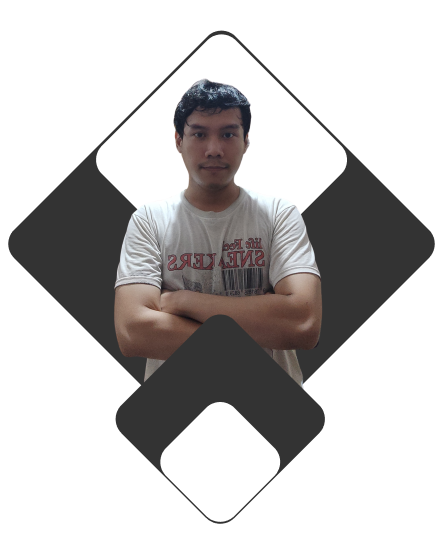
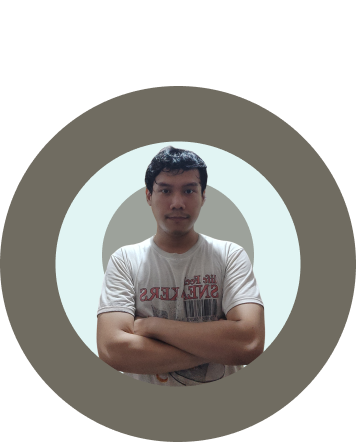
update responsive

diff --git a/public/assets/css/homepage.css b/public/assets/css/homepage.css
@@ -23,7 +23,7 @@ height: 20px;
     margin:5px 7px;
     background: #000000 !important;
     display:block;
-    -webkit-backface-visibility:visible;
+    /* -webkit-backface-visibility:visible; */
     -webkit-transition:opacity 200ms ease;
     -moz-transition:opacity 200ms ease;
     -ms-transition:opacity 200ms ease;
@@ -39,7 +39,7 @@ height: 20px;
     margin:5px 7px;
     background: #00CDC2 !important;
     display:block;
-    -webkit-backface-visibility:visible;
+    /* -webkit-backface-visibility:visible; */
     -webkit-transition:opacity 200ms ease;
     -moz-transition:opacity 200ms ease;
     -ms-transition:opacity 200ms ease;
@@ -285,4 +285,33 @@ a:hover{
 }
 .fontsize-49{
     font-size: 49px;
+}
+.margin-about{
+    margin: 0 8rem !important;
+}
+.margin-footer{
+    margin: 1rem 5rem !important;
+}
+
+@media screen and (max-width:386px) {
+    .hidden-xs {
+        display: none !important;
+    }
+}
+@media screen and (max-width: 1140px) {
+    .hidden {
+        display: none !important;
+    }
+    .be-relative{
+        position: relative !important;
+    }
+    .mt-7r{
+        margin: 2rem 0 4rem 0 !important;
+    }
+    .margin-about{
+        margin: 0 2rem !important;
+    }
+    .margin-footer{
+        margin: 1rem  !important;
+    }
 }

diff --git a/resources/views/template/homepage.blade.php b/resources/views/template/homepage.blade.php
@@ -5,7 +5,6 @@
     <meta name="viewport" content="width=device-width, initial-scale=1.0">
     <meta http-equiv="X-UA-Compatible" content="ie=edge">
     <meta name="theme-color" content="#333333">
-    <meta name='viewport' content='width=device-width, initial-scale=1.0, maximum-scale=1.0, user-scalable=0' >
     <title>Curriculum Vitae - Reyhan</title>
     {{-- style  --}}
     @method('before-style')
@@ -19,9 +18,9 @@
     <div class="jumbotron jumbotron-fluid">
         <div class="container">
             <div class="row position-relative">
-                <div class="col-6 position-absolute" style="left:0;top:0">
+                <div class="col-12 col-lg-6 position-absolute be-relative" style="left:0;top:0">
                     <div class="ml-4">
-                        <div class="lato fontsize-25 half-border main-color">MUHAMMAD REYHAN HAMAMI</div>
+                        <div class="lato fontsize-21 half-border main-color">MUHAMMAD REYHAN HAMAMI</div>
                         <div class="lato fontsize-19 mt-3 secondary-color">FULL STACK DEVELOPER</div>
                         <div class="lato fontsize-15 mt-2 secondary-color">LARAVEL - FLUTTER - VUEJS</div>
                         <div class="row mt-5">
@@ -29,7 +28,7 @@
                             <div class="dot mr-2"></div>
                             <div class="dot"></div>
                         </div>
-                        <div class="rectangel-icon mt-7r">
+                        <div class="rectangel-icon mt-7r hidden-xs">
                             <div class="row text-center ">
                                 <div class="col" style="margin-top:3.5px">
                                     <a href="https://www.instagram.com/mreyhanhamami/" target="_blank">
@@ -55,10 +54,10 @@
                         </div>
                     </div>
                 </div>
-                <div class="col-5 position-relative mx-auto" style="top:-90px;right:7px">
-                    <img src="{{ asset('assets/img/jumbotron.png') }}" alt="">
+                <div class="col-11 col-md-5 position-relative mx-auto hidden" style="top:-8rem;left:2rem;z-index: -1 !important">
+                    <img src="{{ asset('assets/img/jumbotron.png') }}" alt="" style="">
                 </div>
-                <div class="col-4 pl-5 position-absolute" style="right:0;top:0">
+                <div class="col-4 pl-5 position-absolute hidden" style="right:0;top:0">
                     <div class="row d-flex align-items-end">
                         <div class="col-6 rubik fontsize-49">HELLO</div>
                         <div class="col-1 "><div class="dot"></div></div>
@@ -96,11 +95,11 @@
             <div class="lato fontsize-20 light-color text-center pt-5" >
                 Tentang Saya
             </div>
-            <div style="position: absolute;top:-10rem !important;left:20rem !important" >
+            <div class="hidden" style="position: absolute;top:-10rem !important;left:20rem !important" >
                 <img src="{{ asset('assets/img/aboutus.png') }}" alt="">
             </div>
         </div>
-        <div class="fontsize-15 light-color text-center pt-5 mx-auto position-relative" style="margin: 0 8rem !important;z-index:2">
+        <div class="fontsize-15 light-color text-center pt-5 mx-auto position-relative margin-about" style="z-index:2">
             Full stack developer dengan pengalaman lebih dari 3 tahun dan telah membuat berbagai macam jenis aplikasi website maupun mobile, dan dapat berkerja sendiri ataupun berkolaborasi dengan team,
             Bersemangat menciptakan aplikasi yang hebat, dan belajar tiap hari untuk pengembangan diri, motto saya menjadi simple dan mudah itu baik
         </div>
@@ -116,7 +115,7 @@
         </div>
         <div class="row">
 
-            <div class="col-6 text-center">
+            <div class="col-12 col-md-6 col-md-6 text-center">
                 <span class="fas fa-laptop-code fa-2x btn-service"></span>
                 <div class="lato fontsize-20">Web Development</div>
                 <div class="fontsize-15 mt-3">Membuat aplikasi kustom, berdasarkan permintaan berbasis web, dengan harga terjangkau, menggunakan bahasa pemrograman php, freamwork 
@@ -128,7 +127,7 @@
                 </div>
             </div>
 
-            <div class="col-6 text-center">
+            <div class="col-12 col-md-6 text-center">
                 <span class="fas fa-code fa-2x btn-service"></span>
                 <div class="lato fontsize-20">Apps Development</div>
                 <div class="fontsize-15 mt-3">Membuat aplikasi kustom, berdasarkan permintaan berbasis android, dengan harga terjangkau, menggunakan bahasa pemrograman dart, freamwork 
@@ -137,7 +136,7 @@
                 </div>
             </div>
 
-            <div class="col-6 text-center mt-5">
+            <div class="col-12 col-md-6 text-center mt-5">
                 <span class="fas fa-database fa-2x btn-service"></span>
                 <div class="lato fontsize-20">Data base</div>
                 <div class="fontsize-15 mt-3">Menggunakan manajemen basis data
@@ -147,7 +146,7 @@
                 </div>
             </div>
 
-            <div class="col-6 text-center mt-5">
+            <div class="col-12 col-md-6 text-center mt-5">
                 <span class="fas fa-hdd fa-2x btn-service"></span>
                 <div class="lato fontsize-20">Deployment Aplication</div>
                 <div class="fontsize-15 mt-3">Mendistribusikan aplikasi yang dibuat hingga ke tangan pengguna dan bisa dipakai oleh pengguna dengan baik, menggunakan server hosting local maupun internasional, atau upload ke play store jika berbentuk aplikasi android
@@ -164,10 +163,10 @@
         <div class="container">
             <div class="lato fontsize-21 light-color text-center pt-5" >Pendidikan</div>
             <div class="row">
-                <div class="col-3 pl-5">
+                <div class="col-3 pl-5 hidden">
                     <img src="{{ asset('assets/img/education.png') }}" alt="">
                 </div>
-                <div class="col-8 mt-5 ml-5 pl-3">
+                <div class="col-8  mt-5 ml-5 pl-3">
                     <ul>
                         <li class="fontsize-17 light-color">SMK TARUNA BHAKTI - <span class="lightcyan-color">Teknik Komputer Dan Jaringan</span> - DEPOK
                             <br>
@@ -223,10 +222,10 @@
             {{-- carousell porto  --}}
             <div class="carousel-porto owl-carousel">
                 <div class="row mt-3">
-                    <div class="col-5 mt-2">
+                    <div class="col-11 col-md-5 mt-2">
                         <img src="{{ asset('assets/img/intranet.png') }}" alt="" width="450px" style="border-radius: 10px">
                     </div>
-                    <div class="col-5 ml-4">
+                    <div class="col-11 col-md-5 ml-4">
                         <div class="lato fontsize-24 light-color">Intranet</div>
                         <div class="fontsize-14 light-color mt-2">Aplikasi Intranet berfungsi sebagai gerbang login utama untuk dapat bisa 
                             mengakses internet public maupun local di area kantor, serta memiliki berbagai fitur seperti
@@ -234,10 +233,10 @@
                     </div>
                 </div>
                 <div class="row mt-3">
-                    <div class="col-5 mt-2">
+                    <div class="col-11 col-md-5 mt-2">
                         <img src="{{ asset('assets/img/trshlife.png') }}" alt="" height="210px" width="450px" style="border-radius: 10px">
                     </div>
-                    <div class="col-5 ml-4">
+                    <div class="col-11 col-md-5 ml-4">
                         <div class="lato fontsize-24 light-color">trshlife</div>
                         <div class="fontsize-14 light-color mt-2">Aplikasi trshlife adalah aplikasi pengelolaan limbah plastik yang dihasilkan dari
                             minuman maupun makanan kemasan berbentuk plastik, dimana fungsi dari aplikasi ini untuk mengenerate QR Code lalu di cetak
@@ -248,10 +247,10 @@
                     </div>
                 </div>
                 <div class="row mt-3">
-                    <div class="col-5 mt-2">
+                    <div class="col-11 col-md-5 mt-2">
                         <img src="{{ asset('assets/img/seller.png') }}" alt="" height="210px" width="450px" style="border-radius: 10px">
                     </div>
-                    <div class="col-5 ml-4">
+                    <div class="col-11 col-md-5 ml-4">
                         <div class="lato fontsize-24 light-color">Pengelola reseller dan barang</div>
                         <div class="fontsize-14 light-color mt-2">Aplikasi yang berguna untuk mengontrol reseller dan juga
                             memantau barang masuk dan keluar, fungsinya agar supplier dapat mengetahui reseller mengambil 
@@ -261,10 +260,10 @@
                     </div>
                 </div>
                 <div class="row mt-3">
-                    <div class="col-5 mt-2">
+                    <div class="col-11 col-md-5 mt-2">
                         <img src="{{ asset('assets/img/blog.png') }}" alt="" width="450px" style="border-radius: 10px">
                     </div>
-                    <div class="col-5 ml-4">
+                    <div class="col-11 col-md-5 ml-4">
                         <div class="lato fontsize-24 light-color">Blog</div>
                         <div class="fontsize-14 light-color mt-2">blog dari badan wakaf al-quran yang dibuat menggunakan 
                             wordpress dan di install di server, dengan fitur-fitur default dari wordpress untuk membuat blog
@@ -272,10 +271,10 @@
                     </div>
                 </div>
                 <div class="row mt-3">
-                    <div class="col-5 mt-2">
+                    <div class="col-11 col-md-5 mt-2">
                         <img src="{{ asset('assets/img/validasi.png') }}" alt="" width="450px" style="border-radius: 10px">
                     </div>
-                    <div class="col-5 ml-4">
+                    <div class="col-11 col-md-5 ml-4">
                         <div class="lato fontsize-24 light-color">Aplikasi Pengontrol Uang masuk</div>
                         <div class="fontsize-14 light-color mt-2">Aplikasi ini dibuat untuk memecahkan masalah dari pihak penyedia layanan transfer
                             bank, dimana proses transfer uang yang masuk di penyedia layanan dan di transfer ke rekening bank penerima dikumpulin 
@@ -285,10 +284,10 @@
                     </div>
                 </div>
                 <div class="row mt-3">
-                    <div class="col-5 mt-2">
+                    <div class="col-11 col-md-5 mt-2">
                         <img src="{{ asset('assets/img/agent.png') }}" alt="" width="450px" style="border-radius: 10px">
                     </div>
-                    <div class="col-5 ml-4">
+                    <div class="col-11 col-md-5 ml-4">
                         <div class="lato fontsize-24 light-color">Aplikasi CRM(customer relationship management)</div>
                         <div class="fontsize-14 light-color mt-2">Aplikasi yang berfungsi sebagai layanan penyambung dengan customer yang 
                             terintegrasi dengan sistem, sehingga setiap percakapan telepon, bukti donasi, terekam dengan baik, dan juga 
@@ -298,7 +297,7 @@
                 </div>
             </div>
             {{-- end carousel  --}}
-            <div class="mt-3" style="margin: 1rem 5rem !important">
+            <div class="mt-3 margin-footer" style="">
                 <div class="light-color fontsize-15 mx-5 text-center">
                     <span class="font-weight-bold">Ingin membuat suatu aplikasi yang hebat??</span>
                     <br> 

diff --git a/resources/views/pages/contactus.blade.php b/resources/views/pages/contactus.blade.php
@@ -53,9 +53,9 @@
                 
                 
                 <div class="form-group row">
-                    <div class="col-sm-10 ">
-                        <button class="btn btn-outline-success">Kirim data</button>
-                        <a href="{{ route('homepage') }}" class="btn btn-outline-danger">Batal</a>
+                    <div class="col-sm-12 text-center">
+                        <button class="btn btn-success">Kirim data</button>
+                        <a href="{{ route('homepage') }}" class="btn btn-danger">Batal</a>
                     </div>
                 </div>
             </form>

diff --git a/resources/views/includes/navbar.blade.php b/resources/views/includes/navbar.blade.php
@@ -1,5 +1,5 @@
 {{-- navbar  --}}
-<nav class="navbar navbar-expand-lg navbar-light ">
+<nav class="navbar navbar-expand-lg navbar-light hidden">
 <div class="collapse navbar-collapse" id="navbarNavAltMarkup">
     <div class="navbar-nav mx-auto lato fontsize-20" style="z-index: 2;">
     <a class="nav-link text-dark" href="{{ route('contact') }}">Contact <span class="sr-only">(current)</span></a>
